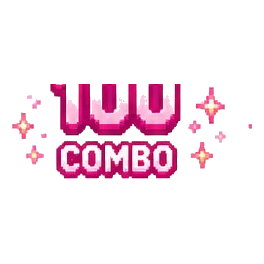
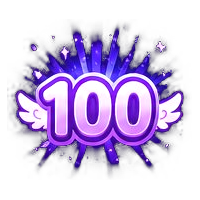
feat(rhythm): new combo milestone badges (10/50/100/200/500)
- Replaced combo_10/50/100/200 with new high-res designs (200x200, normalized)
- Added new combo_500 (gold/orange) for high combo achievement
- COMBO_MILESTONES set now includes 200 and 500 (auto-trigger badge animation)
- Target mapping extended: >=500 -> 500, >=200 -> 200, ... (existing tiers preserved)

Each badge has distinct color theme:
- 10 pink/magenta, 50 blue, 100 purple, 200 green, 500 gold
- Wings + glow + particle burst on black-source PNGs
- Center-aligned bbox in 200x200 canvas for consistent display sizing

diff --git a/src/screens/RhythmGame.jsx b/src/screens/RhythmGame.jsx
@@ -20,7 +20,7 @@ const FEVER_TRIGGER_COMBO = 10;       // 10 PERFECT 연쇄 → 페버 진입
 const FEVER_DURATION_MS = 8_000;
 
 // 콤보 마일스톤 (사운드 cue)
-const COMBO_MILESTONES = new Set([10, 25, 50, 100]);
+const COMBO_MILESTONES = new Set([10, 25, 50, 100, 200, 500]);
 
 // ===== 💬 캐릭터 말풍선 멘트 =====
 const SPEECH_MAP = {
@@ -928,8 +928,10 @@ function PlayField({
 
         {/* COMBO 마일스톤 배지 — 10/25/50/100 도달시 */}
         {comboBadge && (() => {
-          // 시트에 있는 배지: 10/50/100/200 — 가장 가까운 값으로 매핑
-          const target = comboBadge.value >= 100 ? '100'
+          // 시트에 있는 배지: 10/50/100/200/500 — 가장 가까운 값으로 매핑
+          const target = comboBadge.value >= 500 ? '500'
+                       : comboBadge.value >= 200 ? '200'
+                       : comboBadge.value >= 100 ? '100'
                        : comboBadge.value >= 50 ? '50'
                        : comboBadge.value >= 25 ? '50'   // 25 는 50 배지 빌려쓰기
                        : '10';
